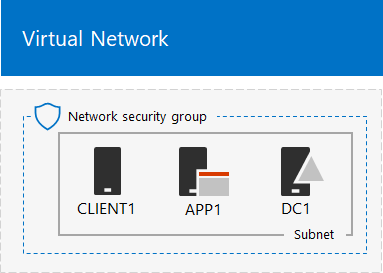
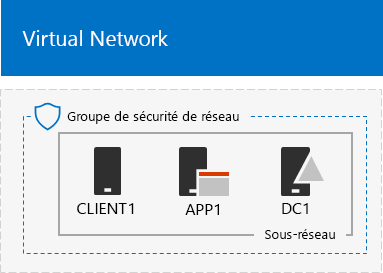
commit translated contents

diff --git a/microsoft-365/enterprise/contoso-info-protect.md b/microsoft-365/enterprise/contoso-info-protect.md
@@ -3,7 +3,7 @@ title: Protection des informations de Contoso Corporation
 author: JoeDavies-MSFT
 ms.author: josephd
 manager: laurawi
-ms.date: 04/10/2019
+ms.date: 10/02/2019
 audience: ITPro
 ms.topic: article
 ms.service: o365-solutions
@@ -12,17 +12,15 @@ ms.collection:
 - M365-security-compliance
 - Strat_O365_Enterprise
 ms.custom: ''
-description: Comprendre la façon dont Contoso utilise les fonctionnalités de protection des informations dans Microsoft 365 Entreprise pour sécuriser ses biens numériques dans le cloud.
-ms.openlocfilehash: 66ae8f4d3ddd71db593daa7b375348e71afeb2f8
-ms.sourcegitcommit: c6eab4a9f1b70e7ff0db6b2a1128a4db2591cbaf
+description: Comprendre la façon dont Contoso utilise les fonctionnalités de protection des informations dans Microsoft 365 Entreprise pour sécuriser des biens numériques dans le cloud.
+ms.openlocfilehash: f5893414a0aab3d0ab89eb180f0c907d4379194c
+ms.sourcegitcommit: 9ee873c6a2f738a0c99921e036894b646742e706
 ms.translationtype: HT
 ms.contentlocale: fr-FR
-ms.lasthandoff: 10/02/2019
-ms.locfileid: "37369595"
+ms.lasthandoff: 11/15/2019
+ms.locfileid: "38673200"
 ---
 # <a name="information-protection-for-the-contoso-corporation"></a>Protection des informations de Contoso Corporation
-
-**Résumé :** Comprendre la façon dont Contoso utilise les fonctionnalités de protection des informations dans Microsoft 365 Entreprise pour sécuriser ses biens numériques dans le cloud.
 
 Contoso prend la protection et la sécurité de ses informations très au sérieux. Par exemple, la fuite ou la destruction de sa propriété intellectuelle comprenant les conceptions de produits et les techniques de fabrication propriétaires placerait la société dans une situation de désavantage compétitif.
 
@@ -35,8 +33,7 @@ Contoso a effectué une analyse de ses données et déterminé les niveaux suiva
 ||||
 |:-------|:-----|:-----|
 | **Niveau 1 : ligne de base** | **Niveau 2 : sensible** | **Niveau 3 : hautement réglementé** |
-| Les données sont chiffrées et accessibles uniquement par les utilisateurs authentifiés. <BR> <BR> Niveau accordé à toutes les données stockées localement et dans le cloud et aux charges de travail, telles qu’Office 365. Les données sont chiffrées lorsqu’elles se trouvent dans le service et lorsqu’elles transitent entre le service et les appareils clients. <BR><BR> Les données de niveau 1 incluent, par exemple, les communications d’entreprise normales (courrier électronique) et les fichiers des collaborateurs de l’administration, des ventes et du support technique. | Niveau 1 avec une authentification et une protection renforcées contre la perte de données : <BR> <BR> Une authentification forte est une authentification multifacteur avec validation SMS. La protection contre la perte de données permet de s’assurer que les informations sensibles ou critiques ne circulent pas à l’extérieur du réseau local.
- <BR><BR> Les données de niveau 2 sont, par exemple, des informations financières et juridiques ainsi que les données de recherche et de développement de nouveaux produits. | Niveau 2 avec des niveaux de chiffrement, d’authentification et d’audit plus élevés. <BR> <BR>  Niveaux de chiffrement des données au repos et dans le cloud les plus élevés, conformes aux réglementations locales, associés à une authentification multifacteur des cartes à puce et aux fonctionnalités d’audit et d’alerte ciblées. <BR> <BR> Les données de niveau 3 concernent, par exemple, les informations d’identification personnelle des clients et des partenaires, les spécifications techniques de produits et les techniques de fabrication propriétaires.  |
+| Les données sont chiffrées et uniquement accessibles par des utilisateurs authentifiés. <BR> <BR> Niveau accordé à toutes les données stockées localement et dans le cloud et aux charges de travail, telles qu’Office 365. Les données sont chiffrées lorsqu’elles se trouvent dans le service et lorsqu’elles transitent entre le service et les appareils clients. <BR><BR> Les données de niveau 1 incluent, par exemple, les communications d’entreprise normales (courrier électronique) et les fichiers des collaborateurs de l’administration, des ventes et du support technique. | Niveau 1 avec une authentification et une protection renforcées contre la perte de données. <BR> <BR> Une authentification forte comporte une authentification multi-facteur Azure (MFA) avec validation SMS. La protection contre la perte de données permet de s’assurer que les informations sensibles ou cruciales ne circulent pas à l’extérieur de Microsoft cloud. <BR><BR> Les données de niveau 2 sont, par exemple, des informations financières et juridiques ainsi que les données de recherche et de développement de nouveaux produits. | Niveau 2 avec des niveaux de chiffrement, d’authentification et d’audit plus élevés. <BR> <BR>  Niveaux de chiffrement des données au repos et dans le cloud les plus élevés, conformes aux réglementations locales, associés à une authentification multi-facteur avec cartes à puce et fonctionnalités d’audit et d’alerte granulaires. <BR> <BR> Les données de niveau 3 concernent, par exemple, les informations d’identification personnelle des clients et des partenaires, les spécifications techniques de produits et les techniques de fabrication propriétaires.  |
 ||||
 
 ## <a name="contosos-information-policies"></a>Stratégies de traitement des informations de Contoso
@@ -45,9 +42,9 @@ Le tableau suivant répertorie les stratégies de traitement des informations de
 |||||
 |:-------|:-----|:-----|:-----|
 |  | **Accès** | **Rétention des données** | **Protection des informations** |
-| Valeur commerciale faible (Niveau 1: Ligne de base) | Autoriser l’accès pour tous  | 6 mois | Utiliser le chiffrement |
-| Valeur commerciale moyenne (Niveau 2: Sensible) | Autoriser l’accès aux collaborateurs, aux sous-traitants et aux partenaires de Contoso <BR> <BR> Utiliser l’authentification multifacteur (MFA), le protocole TLS (Transport Layer Security) et la gestion des applications mobiles (MAM) | 2 ans  | Utiliser les valeurs de hachage pour l’intégrité des données  |
-| Valeur commerciale élevée (Niveau 3 : hautement réglementé) | Autoriser l’accès aux cadres et aux responsables des équipes techniques et de fabrication <BR> <BR> Système RMS avec les périphériques réseau gérés uniquement  | 7 ans  | Utiliser des signatures numériques pour la non-répudiation des données  |
+| Valeur commerciale faible (Niveau 1: Ligne de base) | Autoriser l’accès pour tous  | 6 mois | Utiliser le chiffrement. |
+| Valeur commerciale moyenne (Niveau 2: Sensible) | Autoriser l’accès aux collaborateurs, aux sous-traitants et aux partenaires de Contoso <BR> <BR> Utiliser l’authentification multi-facteur (MFA), le chiffrement TLS (Transport Layer Security) et la gestion des applications mobiles (MAM). | 2 ans  | Utiliser les valeurs de hachage pour l’intégrité des données.  |
+| Valeur commerciale élevée (Niveau 3 : hautement réglementé) | Autoriser l’accès aux cadres et aux responsables des équipes techniques et de fabrication. <BR> <BR> Système de gestion des droits (RMS) avec les appareils réseau gérés seulement.  | 7 ans  | Utiliser des signatures numériques pour le non-reniement.  |
 |||||
 
 ## <a name="contosos-path-to-information-protection-with-microsoft-365-enterprise"></a>Chemin d’accès de Contoso vers la protection des informations avec Microsoft 365 Entreprise
@@ -64,36 +61,34 @@ Contoso a utilisé les étapes suivantes pour préparer Microsoft 365 Entrepris
 
 3. Création des étiquettes Azure Information Protection et de leurs paramètres pour différents niveaux d’informations
 
-   Contoso a créé les étiquettes sensibilité pour leurs niveaux de données sensibles et l’étiquette hautement rigoureuses, y compris le chiffrement, les autorisations et les filigranes.
+   Contoso a créé des étiquettes de confidentialité pour ses niveaux de données dont les étiquettes hautement réglementées incluent chiffrement, autorisations et filigranes.
 
-4. Création de sites SharePoint Online protégés pour les données sensibles et hautement réglementés avec des autorisations qui verrouillent l’accès
+4. Création de sites SharePoint protégés pour les données confidentielles et hautement réglementées avec des autorisations qui verrouillent l’accès.
 
-   Les sites sensibles et hautement réglementés ont été configurés en tant que [sites isolés](https://docs.microsoft.com/office365/enterprise/isolated-sharepoint-online-team-sites) dans lesquels les autorisations de site d’équipe SharePoint Online par défaut ont été personnalisées à des groupes Azure Active Directory Domain Service (Azure AD).  Les sites SharePoint Online sensibles et hautement rigoureuses ont été également configurés avec une étiquette de rétention correspondante. Les fichiers stockés sur des sites SharePoint Online hautement rigoureuses sont protégés avec l’étiquette de la sensibilité hautement rigoureuses. Pour plus d’informations, consultez le scénario[Sites SharePoint Online et Microsoft Teams pour les données hautement réglementées](teams-sharepoint-online-sites-highly-regulated-data.md).
+   Les sites sensibles et hautement réglementés ont été configurés en tant que [sites isolés](https://docs.microsoft.com/office365/enterprise/isolated-sharepoint-online-team-sites) dans lesquels les autorisations de site d’équipe SharePoint par défaut ont été personnalisées. Les sites SharePoint confidentiels et hautement réglementés ont été également configurés avec une étiquette de rétention correspondante. Les fichiers stockés sur des sites SharePoint hautement réglementés sont protégés par une sous-étiquette de confidentialité fortement réglementée. Pour plus d’informations, consultez le scénario des [sites SharePoint pour données hautement réglementées](teams-sharepoint-online-sites-highly-regulated-data.md).
 
-5.  Migration des données de partages de fichiers et de sites SharePoint locaux vers leurs nouveaux sites SharePoint Online
+5.  Migration des données des sites SharePoint locaux et des partages de fichiers vers leurs nouveaux sites SharePoint
 
-    Les fichiers migrés vers les nouveaux sites SharePoint Online ont hérité des étiquettes de rétention par défaut attribuées au site.
+    Les fichiers ayant migré vers les nouveaux sites SharePoint ont hérité des étiquettes de rétention par défaut attribuées au site.
 
-6.  Formation des employés sur la façon d’utiliser les étiquettes Azure Information Protection pour les nouveaux documents, d’interagir avec les services informatiques Contoso lors de la création de nouveaux sites SharePoint Online, et de toujours stocker les biens numériques sur les sites SharePoint Online
+6.  Formation des employés sur la façon d’utiliser les étiquettes de confidentialité pour les nouveaux documents, d’interagir avec les services informatiques Contoso lors de la création de nouveaux sites SharePoint et de constamment stocker les biens numériques sur les sites SharePoint
 
-    Cette partie étant considérée comme la plus difficile de la transition en protection des informations pour le cloud, les services informatiques et de gestion de Contoso ont dû modifier les mauvaises habitudes de stockage des informations des employés de l’organisation pour toujours étiqueter leurs biens numériques et ne jamais utiliser de partages de fichiers locaux tiers ou de clés USB.
+    Cette partie étant considérée comme la plus difficile au niveau de la transition en protection des informations pour le cloud, les services informatiques et de gestion de Contoso ont dû modifier les mauvaises habitudes de stockage d’information des employés de l’organisation pour systématiquement étiqueter leurs biens numériques dans le cloud, renoncer au partage de fichiers sur site et ne jamais utiliser les services de stockage cloud de tiers ou de clés USB.
 
 ## <a name="conditional-access-policies-for-information-protection"></a>Stratégies d’accès conditionnel régissant la protection des informations
 
-Conjointement avec son identité et son infrastructure de gestion des périphériques mobiles, et dans le cadre de son déploiement d’Exchange Online et de SharePoint Online, Contoso a configuré l’ensemble suivant de stratégies d’accès conditionnel qu’il a appliquées aux groupes Azure AD appropriés :
+Conjointement avec son identité et son infrastructure de gestion des appareils mobiles, et dans le cadre de son déploiement d’Exchange Online et de SharePoint, Contoso a configuré l’ensemble suivant de stratégies d’accès conditionnel qu’il a appliquées aux groupes appropriés :
 
 - [Stratégies d’accès aux applications gérées et non gérées sur les périphériques](identity-access-policies.md)
 - [Stratégies d’accès à Exchange Online](secure-email-recommended-policies.md)
-- [Stratégies d’accès à SharePoint Online](sharepoint-file-access-policies.md)
+- [Stratégies d’accès SharePoint](sharepoint-file-access-policies.md)
 
-La figure 1 indique le jeu de résultats des stratégies de protection des informations de Contoso.
+Voici le résultat des stratégies de protection des informations de Contoso.
 
-![Stratégies d’accès conditionnel à SharePoint Online, à Exchange Online et aux appareils](./media/contoso-info-protect/contoso-info-protect-fig1.png)
+![Stratégies d’accès conditionnel à SharePoint, à Exchange Online et aux appareils](./media/contoso-info-protect/contoso-info-protect-fig1.png)
 
-**Figure 1 : stratégies d’accès conditionnel à SharePoint Online, à Exchange Online et aux périphériques**
- 
 >[!Note]
->Contoso a également configuré d’autres stratégies d’accès conditionnel pour l’identité et la connexion. Consultez l’article [Identité pour Contoso Corporation](contoso-identity.md).
+>Contoso a également configuré d’autres stratégies d’accès conditionnel pour l’identité et la connexion. Consultez l’[Identité de Contoso Corporation](contoso-identity.md#conditional-access-policies-for-identity-and-device-access).
 >
 
 Ces stratégies vous assurent que :
@@ -101,21 +96,24 @@ Ces stratégies vous assurent que :
 - Les applications sont permises et les stratégies de protection des applications définissent les applications autorisées et les actions qu’elles peuvent effectuer avec les données de votre organisation.
 - les PC et les périphériques mobiles sont conformes ;
 - Exchange Online utilise le chiffrement de messages Office 365 pour Exchange Online ;
-- SharePoint Online utilise des restrictions d’application appliquées ;
-- SharePoint Online utilise les stratégies de contrôle d’accès pour assurer un accès réservé au navigateur et bloquer l’accès aux périphériques non gérés.
+- SharePoint utilise des restrictions d’application imposées.
+- SharePoint utilise les stratégies de contrôle d’accès pour assurer un accès réservé au navigateur et bloquer l’accès aux matériels non gérés.
 
-## <a name="mapping-microsoft-365-enterprise-features-to-contosos-data-levels"></a>Mappage des fonctionnalités de Microsoft 365 Entreprise aux niveaux de données de Contoso
+## <a name="mapping-microsoft-365-enterprise-features-to-contosos-data-levels"></a>Mappage des fonctionnalités de Microsoft 365 Entreprise aux niveaux des données de Contoso
 
 Le tableau suivant décrit le mappage des niveaux de données de Contoso aux fonctionnalités de protection des informations de Microsoft 365 Entreprise.
 
 |||||
 |:-------|:-----|:-----|:-----|
 | | **Office 365** | **Windows 10 et Office 365 ProPlus** | **EMS** |
-| Niveau 1 : ligne de base  | Stratégies d’accès conditionnel à SharePoint Online et à Exchange Online <BR> Autorisations sur les sites SharePoint Online | Étiquettes de niveau de confidentialité <BR> BitLocker <BR> Protection des informations Windows | Stratégies d’accès conditionnel aux périphériques et stratégies de gestion des applications mobiles |
-| Niveau 2 : Sensible | Niveau 1 plus : <BR> <BR> Étiquettes de niveau de confidentialité <BR> Étiquettes Office 365 sur les sites SharePoint Online <BR> Protection contre la perte de données Office 365 pour SharePoint Online et Exchange Online <BR> Sites SharePoint Online isolés  | Niveau 1 plus : <BR> <BR> Étiquettes de sensibilité sur les biens numériques <BR> Gouvernance des données avancée Office 365 | Niveau 1 |
+| Niveau 1 : ligne de base  | Stratégies d’accès conditionnel à SharePoint et à Exchange Online <BR> Autorisations sur les sites SharePoint | Étiquettes de confidentialité <BR> BitLocker <BR> Protection des informations Windows | Stratégies d’accès conditionnel aux matériels et stratégies de gestion des applications mobiles |
+| Niveau 2 : Sensible | Niveau 1 plus : <BR> <BR> Étiquettes de confidentialité <BR> Étiquettes de rétention Office 365 sur les sites SharePoint <BR> Protection contre la perte de données Office 365 pour SharePoint et Exchange Online <BR> Sites SharePoint isolés  | Niveau 1 plus : <BR> <BR> Étiquettes de sensibilité sur les biens numériques  | Niveau 1 |
 | Niveau 3 : hautement réglementé | Niveau 2 plus : <BR><BR> Chiffrement Bring Your Own Key (BYOK) et protection des informations commerciales secrètes <BR> Azure Key Vault pour les applications métier qui interagissent avec les services Office 365 | Niveau 2 | Niveau 1 |
 |||||
 
+Voici les résultats de la configuration de la protection des informations de Contoso.
+
+![Configuration de la protection des informations obtenue par Contoso.](./media/contoso-info-protect/contoso-info-protect-fig2.png)
 
 ## <a name="next-step"></a>Étape suivante
 

diff --git a/microsoft-365/enterprise/m365-enterprise-test-lab-guides.md b/microsoft-365/enterprise/m365-enterprise-test-lab-guides.md
@@ -15,14 +15,16 @@ ms.custom:
 - Ent_TLGs
 ms.assetid: 706d5449-45e5-4b0c-a012-ab60501899ad
 description: Servez-vous des guides de laboratoire de test pour configurer les environnements de développement/test, de preuve de concept et de démonstration pour Microsoft 365 Entreprise.
-ms.openlocfilehash: dadde9d6366e2d5d12bf632d0b77bf60ba9cdbab
-ms.sourcegitcommit: 78f2c5f89f4f59e4c1865369fc6ba82486881e8a
+ms.openlocfilehash: 2f6fd8c17096c9c25a0f1af886894e68d33e939d
+ms.sourcegitcommit: 9ee873c6a2f738a0c99921e036894b646742e706
 ms.translationtype: HT
 ms.contentlocale: fr-FR
-ms.lasthandoff: 11/04/2019
-ms.locfileid: "37964423"
+ms.lasthandoff: 11/15/2019
+ms.locfileid: "38672570"
 ---
 # <a name="microsoft-365-enterprise-test-lab-guides"></a>Guides de laboratoire de test Microsoft 365 Entreprise
+
+*Sont valables pour Microsoft 365 Entreprise et Office 365 Entreprise*.
 
 Les guides de laboratoire de test vous permettent de vous familiariser rapidement avec les produits Microsoft. Ils fournissent des instructions normatives sur la configuration d’environnements de test simplifiés mais représentatifs. Vous pouvez utiliser ces environnements pour la démonstration, la personnalisation ou la création de preuves de concept complexes pour la durée d’un abonnement d’évaluation ou payant. 
 
@@ -43,6 +45,8 @@ Tout d’abord, créez un environnement de test pour [Microsoft 365 Entreprise]
 - Utilisez la [configuration de base minimale](lightweight-base-configuration-microsoft-365-enterprise.md) pour configurer et faire une démonstration des fonctionnalités de Microsoft 365 Entreprise dans un environnement cloud uniquement, sans aucun composant local.
 
 - Utilisez la [configuration de base d’une entreprise simulée](simulated-ent-base-configuration-microsoft-365-enterprise.md) pour configurer et démontrer des fonctionnalités de Microsoft 365 Entreprise dans un environnement cloud hybride, qui utilise des composants locaux à l’instar d’un domaine Windows Server Active Directory (AD DS).
+
+Vous pouvez également créer des environnements de test pour Office 365 E5 sans ajouter la licence Microsoft 365 E5 à votre version d’évaluation ou à votre environnement de test de production.
     
 ## <a name="identity"></a>Identité
 
